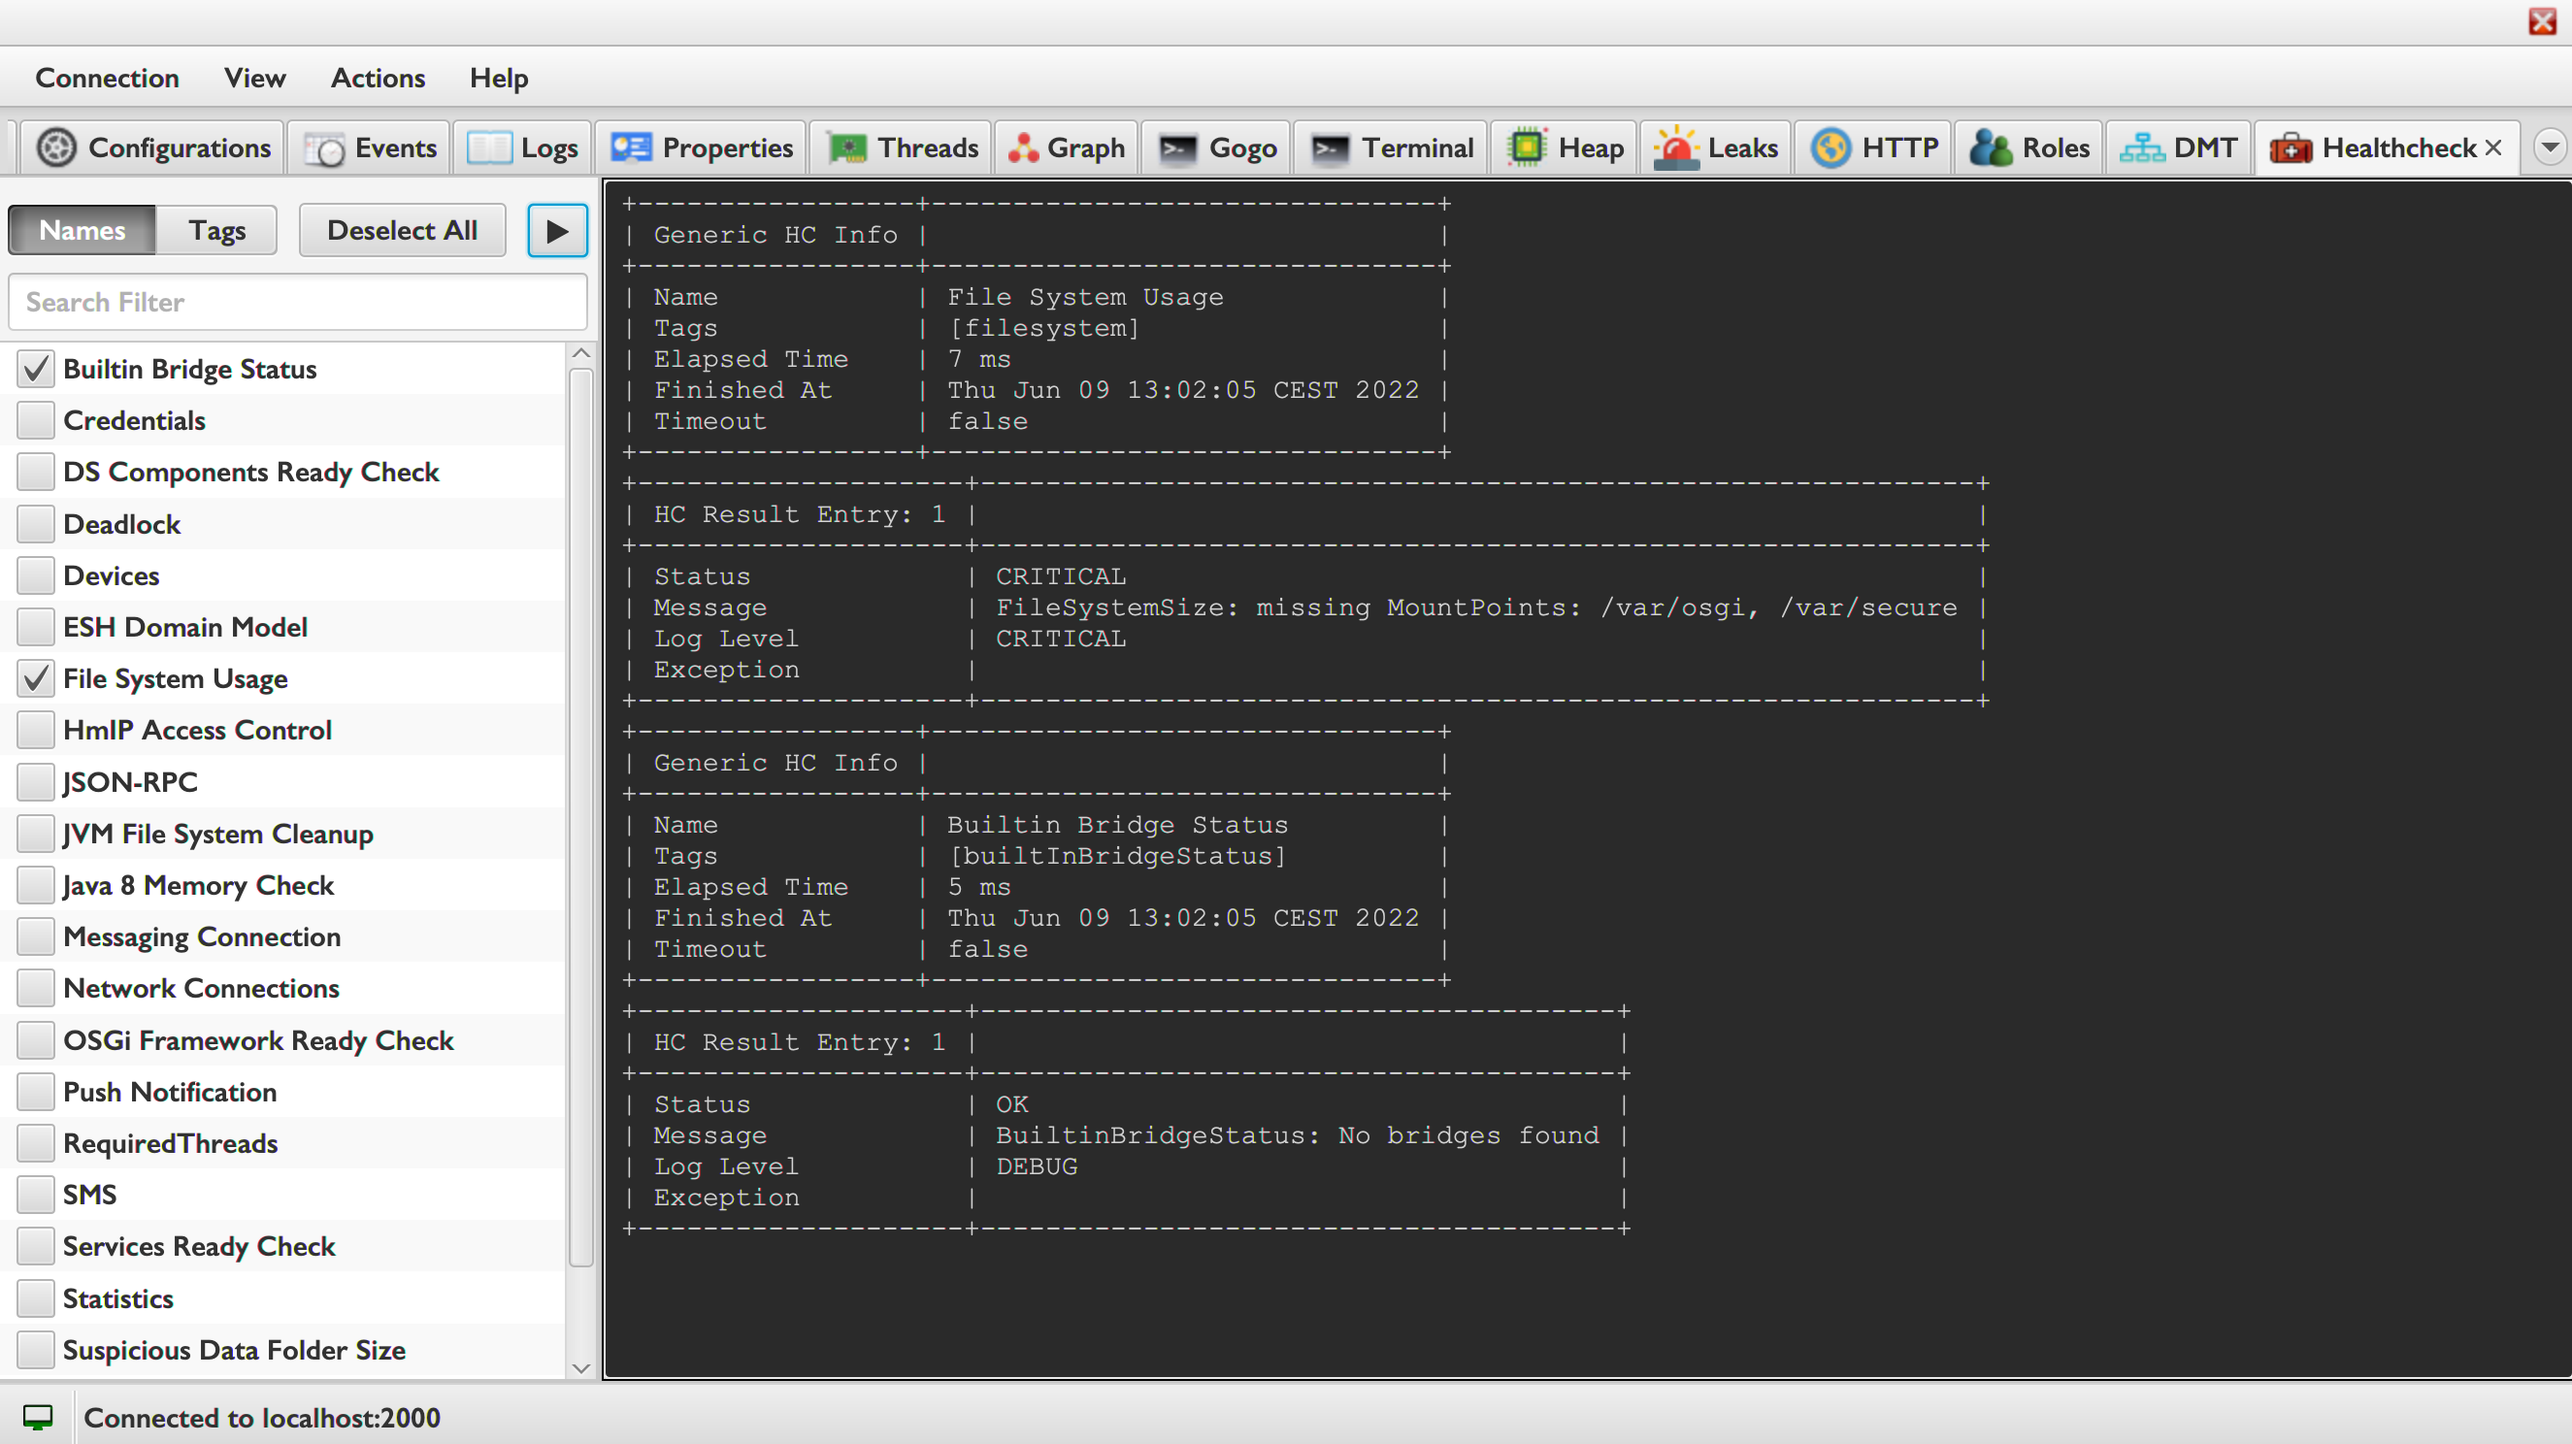
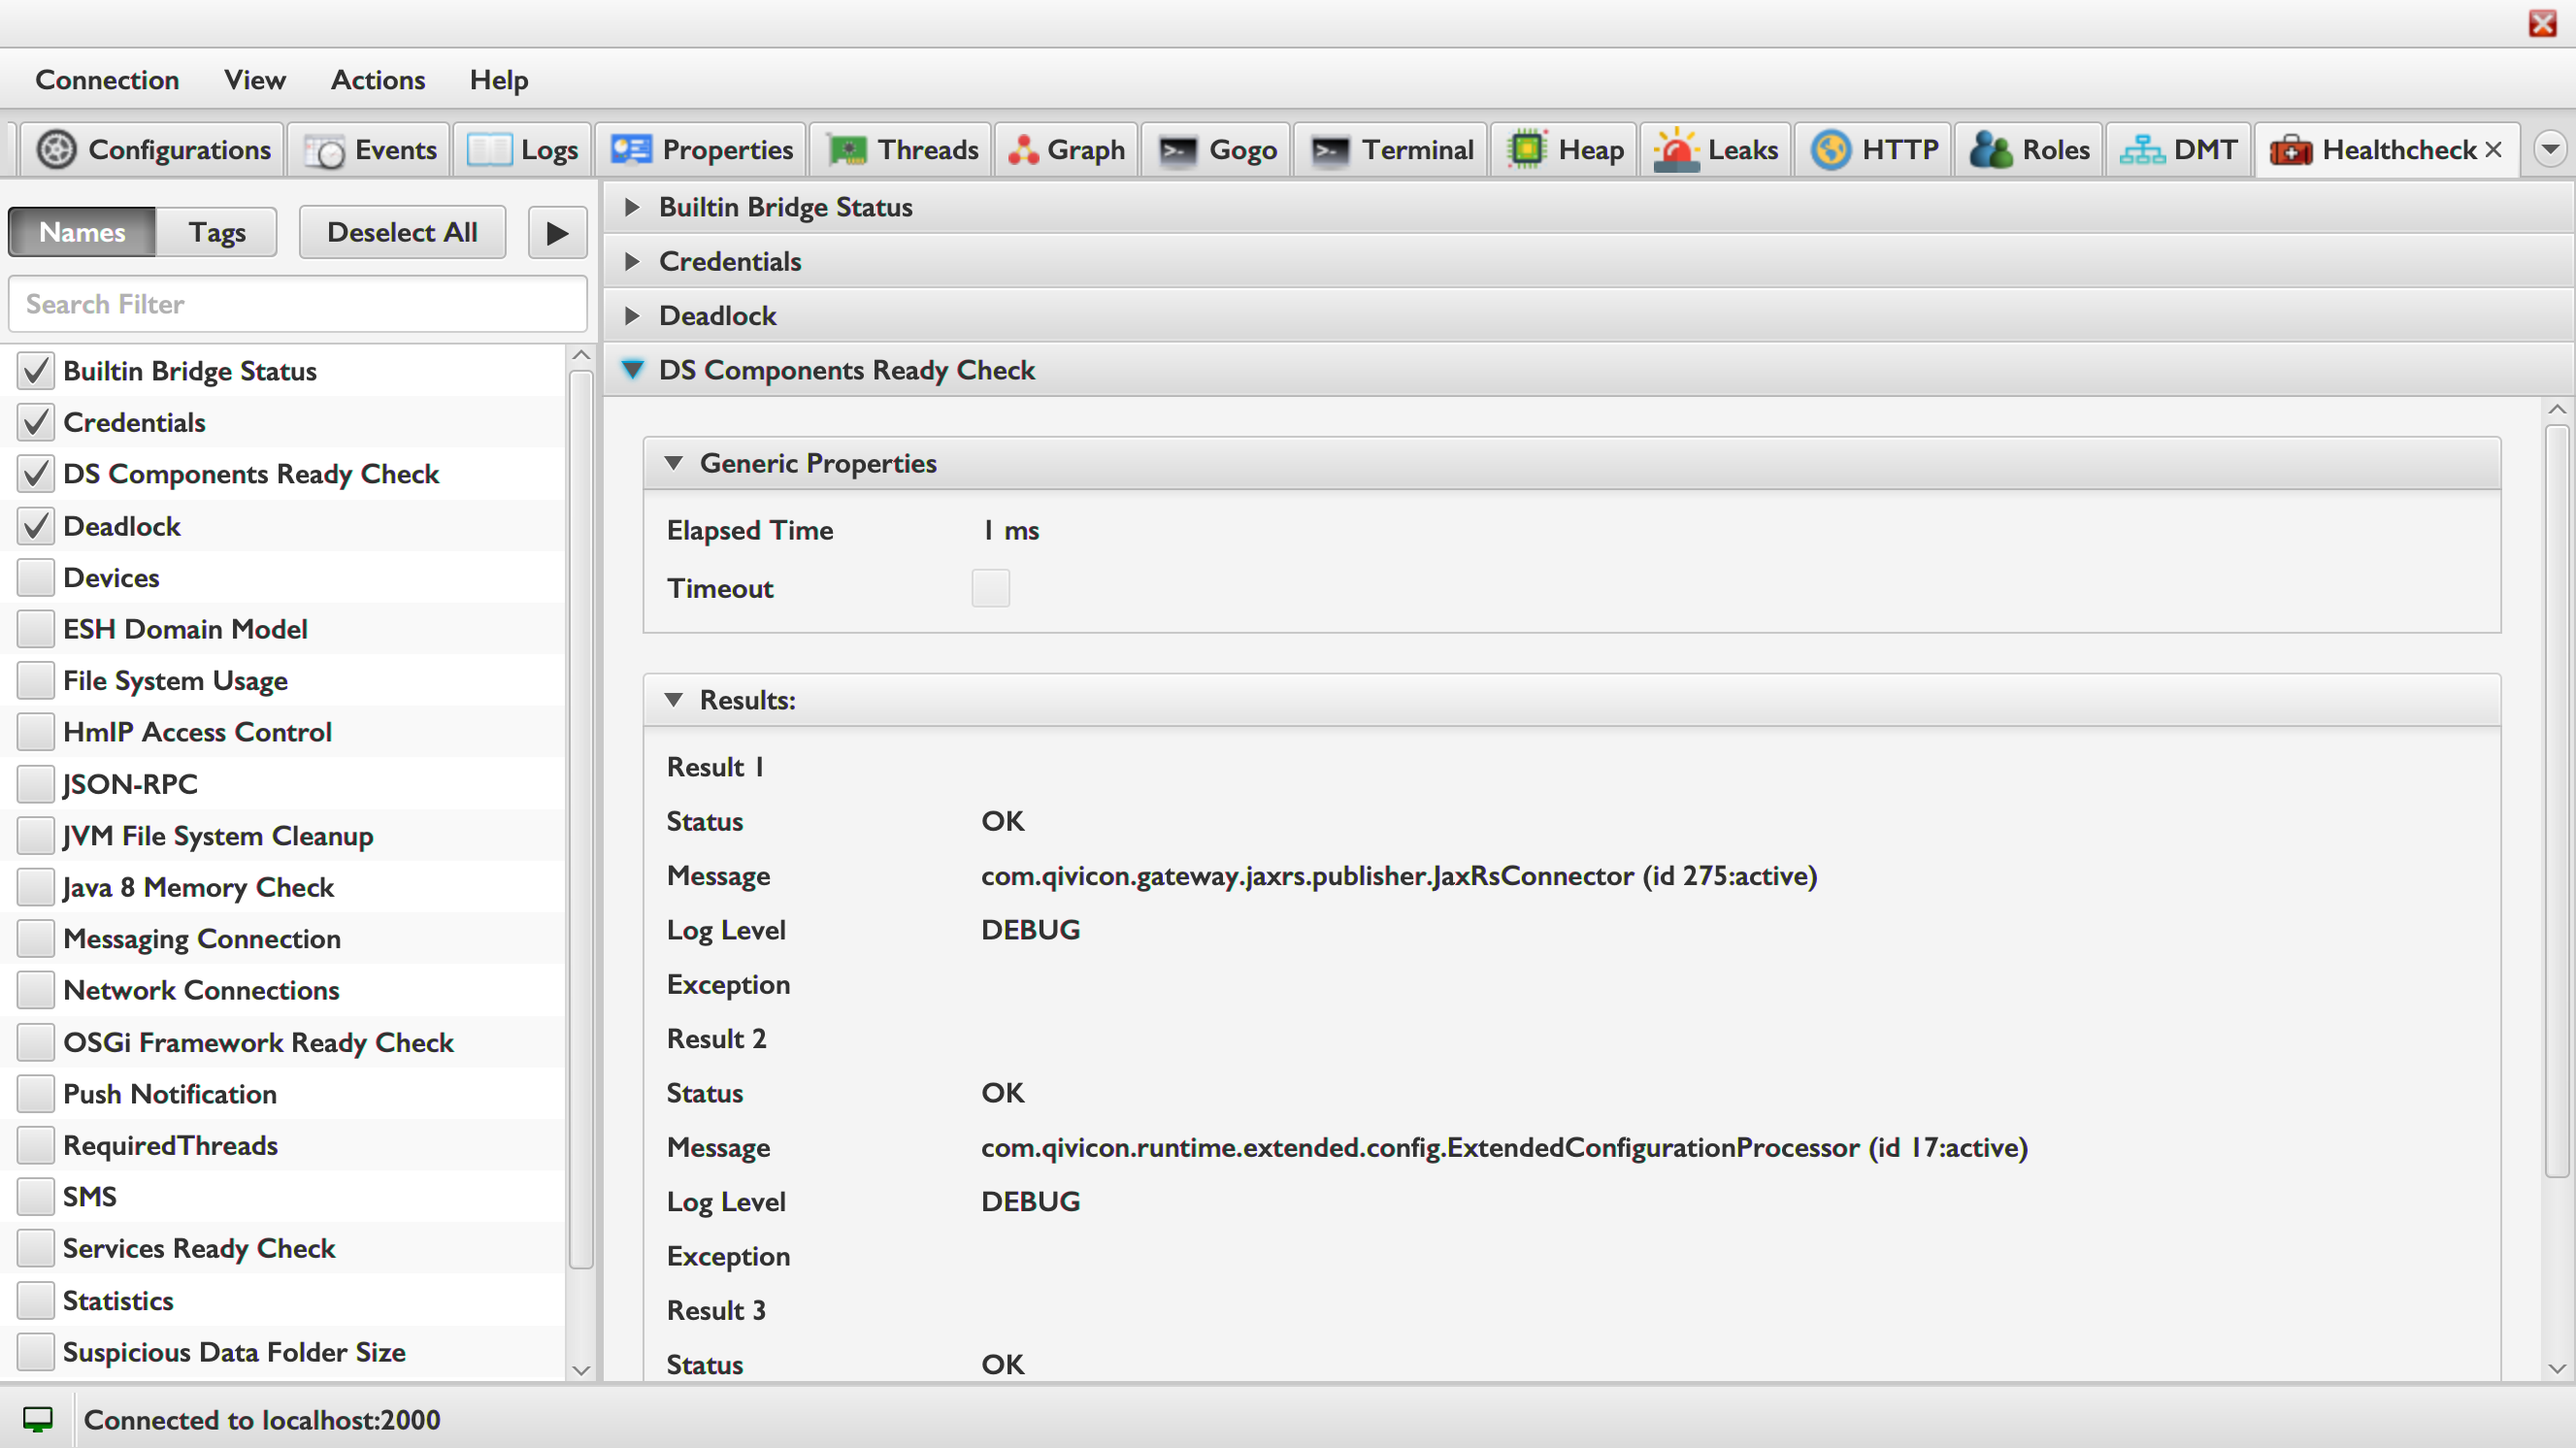
Better visualization of healthcheck execution result
Fixes #106

diff --git a/com.osgifx.console.ui.healthcheck/src/main/java/com/osgifx/console/ui/healthcheck/HealthCheckFxController.java b/com.osgifx.console.ui.healthcheck/src/main/java/com/osgifx/console/ui/healthcheck/HealthCheckFxController.java
@@ -20,8 +20,8 @@ import static javafx.scene.control.SelectionMode.MULTIPLE;
 import static org.controlsfx.control.SegmentedButton.STYLE_CLASS_DARK;
 import static org.osgi.namespace.service.ServiceNamespace.SERVICE_NAMESPACE;
 
+import java.util.ArrayList;
 import java.util.Comparator;
-import java.util.Date;
 import java.util.List;
 import java.util.concurrent.ExecutorService;
 import java.util.concurrent.Executors;
@@ -41,6 +41,10 @@ import org.eclipse.fx.core.log.FluentLogger;
 import org.eclipse.fx.core.log.Log;
 import org.osgi.annotation.bundle.Requirement;
 
+import com.dlsc.formsfx.model.structure.Field;
+import com.dlsc.formsfx.model.structure.Form;
+import com.dlsc.formsfx.model.structure.Section;
+import com.dlsc.formsfx.view.renderer.FormRenderer;
 import com.google.common.base.Functions;
 import com.google.common.base.Strings;
 import com.osgifx.console.agent.dto.XHealthCheckDTO;
@@ -48,7 +52,6 @@ import com.osgifx.console.agent.dto.XHealthCheckResultDTO;
 import com.osgifx.console.agent.dto.XHealthCheckResultDTO.ResultDTO;
 import com.osgifx.console.data.provider.DataProvider;
 import com.osgifx.console.supervisor.Supervisor;
-import com.osgifx.console.util.fx.Table;
 
 import javafx.collections.FXCollections;
 import javafx.collections.ObservableList;
@@ -56,11 +59,17 @@ import javafx.collections.transformation.FilteredList;
 import javafx.concurrent.Task;
 import javafx.event.ActionEvent;
 import javafx.fxml.FXML;
+import javafx.geometry.Insets;
+import javafx.scene.control.Accordion;
 import javafx.scene.control.Button;
-import javafx.scene.control.TextArea;
+import javafx.scene.control.ScrollPane;
+import javafx.scene.control.ScrollPane.ScrollBarPolicy;
 import javafx.scene.control.TextField;
+import javafx.scene.control.TitledPane;
 import javafx.scene.control.ToggleButton;
 import javafx.scene.control.cell.CheckBoxListCell;
+import javafx.scene.layout.BorderPane;
+import javafx.scene.layout.GridPane;
 
 @Requirement(effective = "active", namespace = SERVICE_NAMESPACE, filter = "(objectClass=com.osgifx.console.data.provider.DataProvider)")
 public final class HealthCheckFxController {
@@ -83,7 +92,7 @@ public final class HealthCheckFxController {
 	@FXML
 	private Button                deselectAllButton;
 	@FXML
-	private TextArea              hcResultArea;
+	private BorderPane            hcResultArea;
 	@Inject
 	private DataProvider          dataProvider;
 	@Inject
@@ -216,42 +225,62 @@ public final class HealthCheckFxController {
 			}
 
 			private void addToOutputArea(final List<XHealthCheckResultDTO> hcResults) {
-				hcResultArea.clear();
-				hcResults.stream().map(this::formatResult).forEach(hcResultArea::appendText);
+				try {
+					threadSync.asyncExec(() -> {
+						hcResultArea.getChildren().clear();
+						final var content = new Accordion();
+						hcResultArea.setCenter(content);
+						hcResults.stream().map(this::formatResult).forEach(f -> content.getPanes().add(f));
+					});
+				} catch (final Exception e) {
+					e.printStackTrace();
+				}
 			}
 
-			private String formatResult(final XHealthCheckResultDTO result) {
-				final var output = new StringBuilder();
+			private TitledPane formatResult(final XHealthCheckResultDTO result) {
+				final var form = Form.of(Section.of(initGenericFields(result).toArray(new Field[0])).title("Generic Properties"),
+				        Section.of(initResultEntryFields(result).toArray(new Field[0])).title("Results: ")).title("Result");
 
-				final var genericInfoTable = new Table();
+				final var renderer = new FormRenderer(form);
 
-				genericInfoTable.setShowVerticalLines(true);
-				genericInfoTable.setHeaders("Generic HC Info", "");
+				GridPane.setColumnSpan(renderer, 2);
+				GridPane.setRowIndex(renderer, 3);
+				GridPane.setRowSpan(renderer, Integer.MAX_VALUE);
+				GridPane.setMargin(renderer, new Insets(0, 0, 0, 50));
 
-				genericInfoTable.addRow("Name", result.healthCheckName != null ? result.healthCheckName : "<NO NAME>");
-				genericInfoTable.addRow("Tags", result.healthCheckTags != null ? result.healthCheckTags.toString() : "<NO TAGS>");
-				genericInfoTable.addRow("Elapsed Time", String.valueOf(result.elapsedTime) + " ms");
-				genericInfoTable.addRow("Finished At", new Date(result.finishedAt).toString());
-				genericInfoTable.addRow("Timeout", String.valueOf(result.isTimedOut));
+				final var content = new ScrollPane(renderer);
+				content.setFitToHeight(true);
+				content.setFitToWidth(true);
+				content.setHbarPolicy(ScrollBarPolicy.NEVER);
 
-				output.append(genericInfoTable.print());
+				return new TitledPane(result.healthCheckName, content);
+			}
+
+			private List<Field<?>> initGenericFields(final XHealthCheckResultDTO result) {
+				final Field<?> elapsedTimeField = Field.ofStringType(String.valueOf(result.elapsedTime) + " ms").label("Elapsed Time")
+				        .editable(false);
+				final Field<?> timeoutField     = Field.ofBooleanType(result.isTimedOut).label("Timeout").editable(false);
+
+				return List.of(elapsedTimeField, timeoutField);
+			}
+
+			private List<Field<?>> initResultEntryFields(final XHealthCheckResultDTO result) {
+				final List<Field<?>> allResultFields = new ArrayList<>();
 
 				var i = 0;
 				for (final ResultDTO entry : result.results) {
-					final var resultEntriesTable = new Table();
-
 					i++;
-					resultEntriesTable.setShowVerticalLines(true);
-					resultEntriesTable.setHeaders("HC Result Entry: " + i, "");
+					final Field<?> separatorField = Field.ofStringType("").label("Result " + i).editable(false);
+					final Field<?> statusField    = Field.ofStringType(Strings.nullToEmpty(entry.status)).label("Status").editable(false);
+					final Field<?> messageField   = Field.ofStringType(Strings.nullToEmpty(entry.message)).label("Message").editable(false);
+					final Field<?> logLevelField  = Field.ofStringType(Strings.nullToEmpty(entry.logLevel)).label("Log Level")
+					        .editable(false);
+					final Field<?> exceptionField = Field.ofStringType(Strings.nullToEmpty(entry.exception)).label("Exception")
+					        .multiline(true).editable(false);
 
-					resultEntriesTable.addRow("Status", Strings.nullToEmpty(entry.status));
-					resultEntriesTable.addRow("Message", Strings.nullToEmpty(entry.message));
-					resultEntriesTable.addRow("Log Level", Strings.nullToEmpty(entry.logLevel));
-					resultEntriesTable.addRow("Exception", Strings.nullToEmpty(entry.exception));
-
-					output.append(resultEntriesTable.print());
+					allResultFields.addAll(List.of(separatorField, statusField, messageField, logLevelField, exceptionField));
 				}
-				return output.toString();
+				return allResultFields;
 			}
 
 		};
